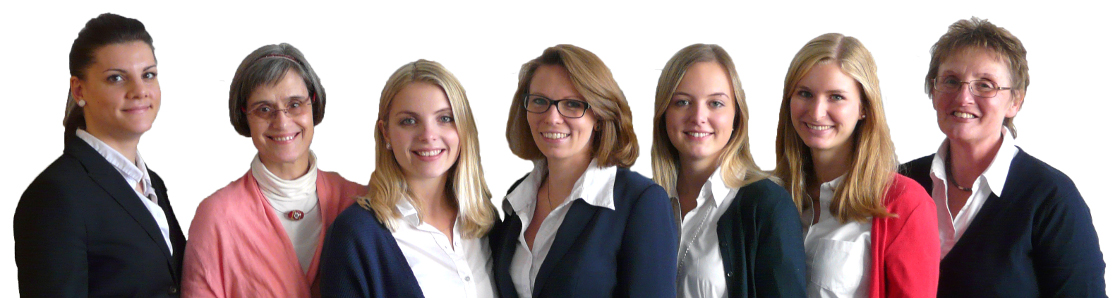
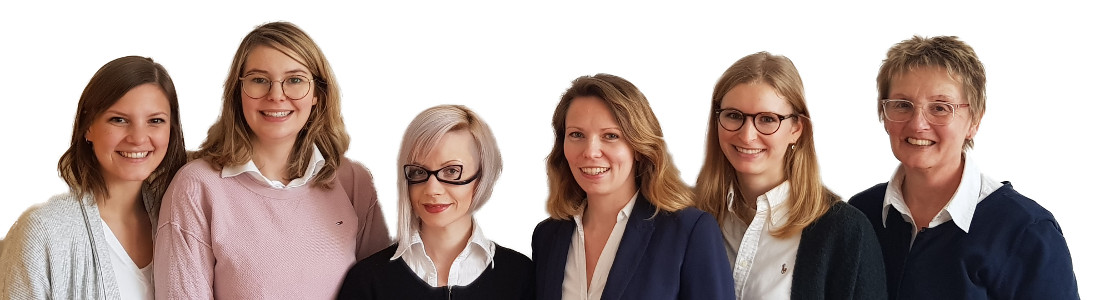
[Team] Ersetzt ehemalige durch neue Mitarbeiter

diff --git a/team.html b/team.html
@@ -33,7 +33,7 @@
 					<p class="w1">
 						Ihr Logop&auml;die-Team
 						<br />
-						Unser Team besteht aus vier Logop&auml;dinnen, zwei Sprachtherapeutinnen und einer Arzthelferin.
+						Unser Team besteht aus f&uuml;nf Logop&auml;dinnen und einer Arzthelferin.
 					</p>
 					<div class="group-image">
 						<img src="files/team.jpg" alt="Das Logop&auml;die-Team">
@@ -63,59 +63,7 @@
 							</p>
 						</div>
 					</div>
-					
-					<div class="person">
-						<div class="photo">
-							<img src="files/k_niggl.jpg" alt="K. Niggl">
-						</div>
-						<div class="person_desc">
-							<p class="person_desc">
-								<div class="name">K. Niggl</div>
-							<br />
-								Staatlich gepr&uuml;fte Logop&auml;din
-							<br />
-								Examen in M&uuml;nchen: 2011
-							</p>
-							<p class="person_desc core_area">
-								<div class="core_area">Schwerpunkte:</div>
-								<ul class="core_area">
-									<li class="core_area">Sprachentwicklungsst&ouml;rungen</li>
-									<li class="core_area">Stimmst&ouml;rungen</li>
-									<li class="core_area">Aphasien</li>
-								</ul>
-							</p>
-							<p class="add_qualif">
-								<div class="add_qualif">Zusatzqualifikation:</div>
-								<ul class="core_area">
-									<li class="core_area">zertifizierte Entspannungsp&auml;dagogin</li>
-								</ul>
 
-								 
-							</p>
-						</div>
-					</div>
-					<div class="person">
-						<div class="photo">
-							<img src="files/j_neher.jpg" alt="J. Neher">
-						</div>
-						<div class="person_desc">
-							<p class="person_desc">
-								<div class="name">J. Neher</div>
-							<br />
-								Akad. Sprachtherapeutin B.A.
-							<br />
-								Examen in M&uuml;nchen: 2015
-							</p>
-							<p class="person_desc core_area">
-								<div class="core_area">Schwerpunkte:</div>
-								<ul class="core_area">
-									<li class="core_area">Sprachentwicklungsst&ouml;rungen</li>
-									<li class="core_area">Aphasien</li>
-									<li class="core_area">myofunktionelle St&ouml;rungen</li>
-								</ul>
-							</p>
-						</div>
-					</div>	
 					<div class="person">
 						<div class="photo">
 							<img src="files/a_simon.jpg" alt="A. Simon">
@@ -138,28 +86,76 @@
 							</p>
 						</div>
 					</div>	
+
 					<div class="person">
 						<div class="photo">
-							<img src="files/k_hallhuber.jpg" alt="K. Hallhuber">
+							<img src="files/s_kaczmarek.jpg" alt="S. Kaczmarek">
 						</div>
 						<div class="person_desc">
 							<p class="person_desc">
-								<div class="name">K. Hallhuber</div>
+								<div class="name">S. Kaczmarek</div>
 							<br />
-								Akad. Sprachtherapeutin B.A.
+								Staatlich gepr&uuml;fte Logop&auml;din
 							<br />
-								Examen in M&uuml;nchen: 2016
+								Examen in Friedrichshafen: 2017
 							</p>
 							<p class="person_desc core_area">
 								<div class="core_area">Schwerpunkte:</div>
 								<ul class="core_area">
 									<li class="core_area">Stimme</li>
-									<li class="core_area">Sprachentwicklungsst&ouml;rungen</li>
-									<li class="core_area">myofunktionelle St&ouml;rungen</li>
+									<li class="core_area">Stottern</li>
+									<li class="core_area">Artikulation</li>
 								</ul>
 							</p>
 						</div>
 					</div>	
+
+					<div class="person">
+						<div class="photo">
+							<img src="files/j_stoeckl.jpg" alt="J. Stöckl">
+						</div>
+						<div class="person_desc">
+							<p class="person_desc">
+								<div class="name">J. Stöckl</div>
+							<br />
+								Staatlich gepr&uuml;fte Logop&auml;din
+							<br />
+								Examen in M&uuml;nchen: 2018
+							</p>
+							<p class="person_desc core_area">
+								<div class="core_area">Schwerpunkte:</div>
+								<ul class="core_area">
+									<li class="core_area">Sprachentwicklungsst&ouml;rung</li>
+									<li class="core_area">Aphasie</li>
+									<li class="core_area">Dysphagie</li>
+								</ul>
+							</p>
+						</div>
+					</div>	
+
+					<div class="person">
+						<div class="photo">
+							<img src="files/anonymous.png" alt="L. Keller">
+						</div>
+						<div class="person_desc">
+							<p class="person_desc">
+								<div class="name">L. Keller</div>
+							<br />
+								Staatlich gepr&uuml;fte Logop&auml;din
+							<br />
+								Examen in M&uuml;nchen: 2018
+							</p>
+							<p class="person_desc core_area">
+								<div class="core_area">Schwerpunkte:</div>
+								<ul class="core_area">
+									<li class="core_area">LRS</li>
+									<li class="core_area">CI-H&ouml;rtraining</li>
+									<li class="core_area">Sprachentwicklungsst&ouml;rung</li>
+								</ul>
+							</p>
+						</div>
+					</div>	
+					
 					<div class="person">
 						<div class="photo">
 							<img src="files/g_maier.jpg" alt="G. Maier">
